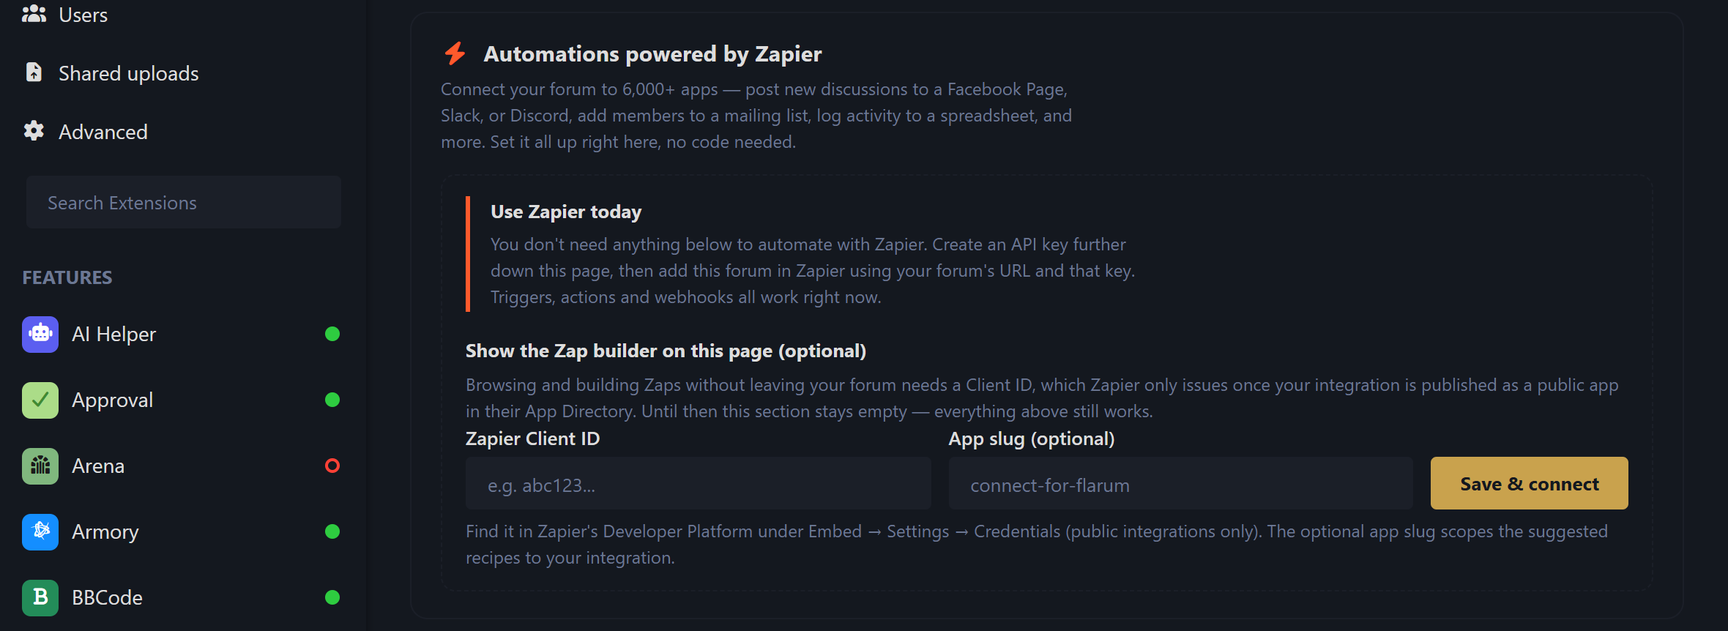
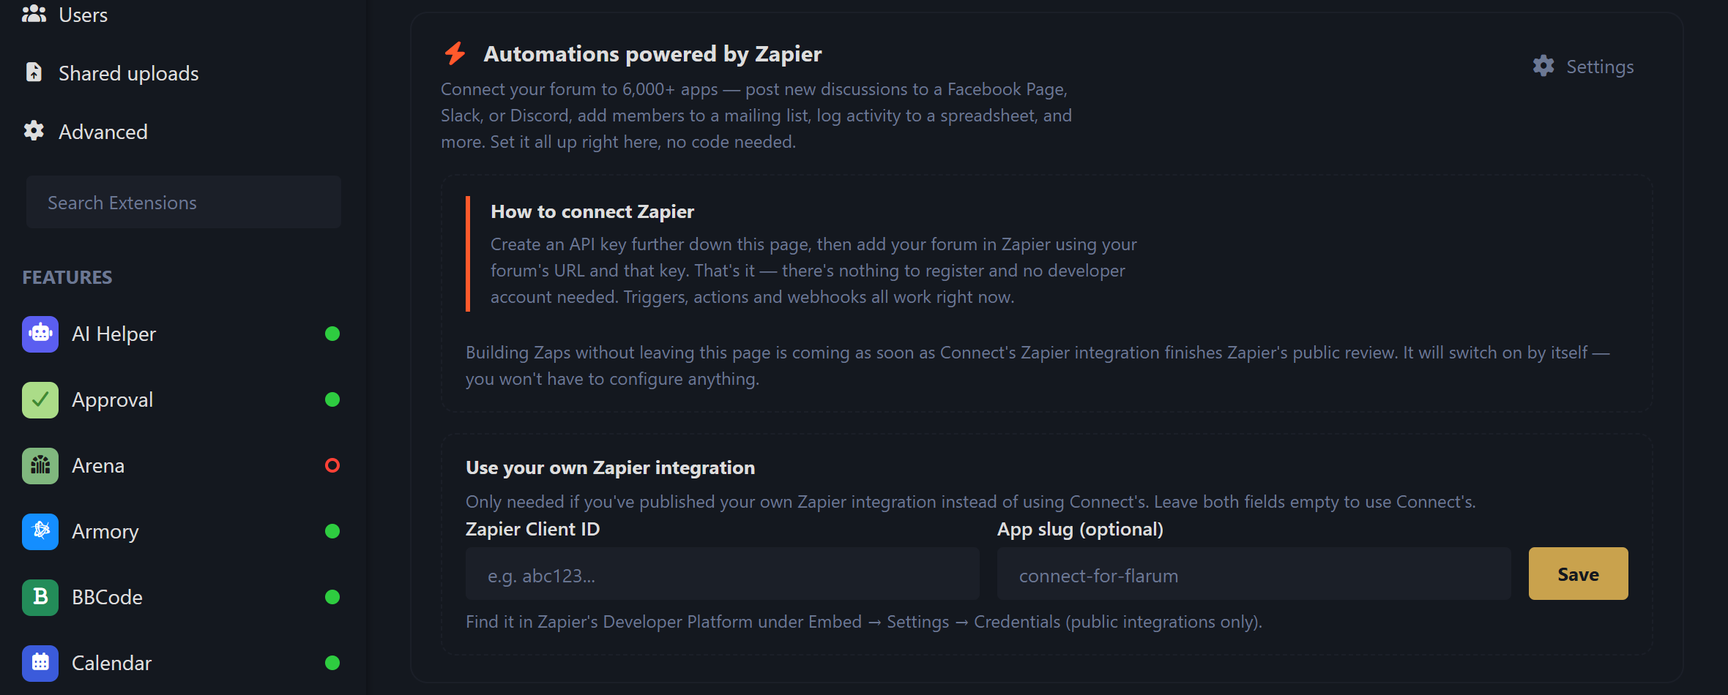
Connect: one shared Zapier integration, zero setup per forum
The panel asked every admin for their own Zapier Client ID — which would mean
each forum owner registering a developer integration and shepherding it through
Zapier's public review just to use the extension. Backwards.

Because the integration authenticates per-site (forum URL + a Connect API key),
a SINGLE published integration serves every install. So the Client ID now ships
in the source (it's public by design) as DEFAULT_CLIENT_ID:

- Admins configure nothing. The in-page builder switches on for every forum the
  moment Connect's integration clears Zapier's public review.
- Until then the panel explains the API-key route, which already works, instead
  of showing a form nobody can complete.
- The per-site Client ID becomes an advanced override behind the gear, for
  anyone running their own integration.

diff --git a/js/dist/admin.js b/js/dist/admin.js
@@ -1,2 +1,2 @@
-(()=>{const e={n:t=>{const n=t&&t.__esModule?()=>t.default:()=>t;return e.d(n,{a:n}),n},d:(t,n)=>{if(Array.isArray(n))for(var a=0;a<n.length;){var l=n[a++],s=n[a++];e.o(t,l)?0===s&&a++:0===s?Object.defineProperty(t,l,{enumerable:!0,value:n[a++]}):Object.defineProperty(t,l,{enumerable:!0,get:s})}else for(var l in n)e.o(n,l)&&!e.o(t,l)&&Object.defineProperty(t,l,{enumerable:!0,get:n[l]})},o:(e,t)=>Object.prototype.hasOwnProperty.call(e,t),r:e=>{Symbol.toStringTag&&Object.defineProperty(e,Symbol.toStringTag,{value:"Module"}),Object.defineProperty(e,"__esModule",{value:!0})}};let t={};(()=>{"use strict";e.r(t),e.d(t,{extend:()=>T});const n=flarum.reg.get("core","common/extenders");var a=e.n(n);function l(e,t){(null==t||t>e.length)&&(t=e.length);for(var n=0,a=Array(t);n<t;n++)a[n]=e[n];return a}function s(e,t){return function(e){if(Array.isArray(e))return e}(e)||function(e,t){var n=null==e?null:"undefined"!=typeof Symbol&&e[Symbol.iterator]||e["@@iterator"];if(null!=n){var a,l,s,o,i=[],r=!0,c=!1;try{if(s=(n=n.call(e)).next,0===t){if(Object(n)!==n)return;r=!1}else for(;!(r=(a=s.call(n)).done)&&(i.push(a.value),i.length!==t);r=!0);}catch(e){c=!0,l=e}finally{try{if(!r&&null!=n.return&&(o=n.return(),Object(o)!==o))return}finally{if(c)throw l}}return i}}(e,t)||function(e,t){if(e){if("string"==typeof e)return l(e,t);var n={}.toString.call(e).slice(8,-1);return"Object"===n&&e.constructor&&(n=e.constructor.name),"Map"===n||"Set"===n?Array.from(e):"Arguments"===n||/^(?:Ui|I)nt(?:8|16|32)(?:Clamped)?Array$/.test(n)?l(e,t):void 0}}(e,t)||function(){throw new TypeError("Invalid attempt to destructure non-iterable instance.\nIn order to be iterable, non-array objects must have a [Symbol.iterator]() method.")}()}function o(e){return o="function"==typeof Symbol&&"symbol"==typeof Symbol.iterator?function(e){return typeof e}:function(e){return e&&"function"==typeof Symbol&&e.constructor===Symbol&&e!==Symbol.prototype?"symbol":typeof e},o(e)}function i(e,t,n){return(t=function(e){var t=function(e){if("object"!=o(e)||!e)return e;var t=e[Symbol.toPrimitive];if(void 0!==t){var n=t.call(e,"string");if("object"!=o(n))return n;throw new TypeError("@@toPrimitive must return a primitive value.")}return String(e)}(e);return"symbol"==o(t)?t:t+""}(t))in e?Object.defineProperty(e,t,{value:n,enumerable:!0,configurable:!0,writable:!0}):e[t]=n,e}const r=flarum.reg.get("core","admin/app");var c=e.n(r);const u=flarum.reg.get("core","admin/components/ExtensionPage");var d=e.n(u);const p=flarum.reg.get("core","common/components/Button");var h=e.n(p);const g=flarum.reg.get("core","common/components/LoadingIndicator");var f=e.n(g);const v=flarum.reg.get("core","common/components/Switch");var b=e.n(v);const y=flarum.reg.get("core","common/Component");var _=e.n(y);const k=flarum.reg.get("core","common/components/Select");var w=e.n(k);function N(e,t){var n=Object.keys(e);if(Object.getOwnPropertySymbols){var a=Object.getOwnPropertySymbols(e);t&&(a=a.filter(function(t){return Object.getOwnPropertyDescriptor(e,t).enumerable})),n.push.apply(n,a)}return n}function C(e){for(var t=1;t<arguments.length;t++){var n=null!=arguments[t]?arguments[t]:{};t%2?N(Object(n),!0).forEach(function(t){i(e,t,n[t])}):Object.getOwnPropertyDescriptors?Object.defineProperties(e,Object.getOwnPropertyDescriptors(n)):N(Object(n)).forEach(function(t){Object.defineProperty(e,t,Object.getOwnPropertyDescriptor(n,t))})}return e}const S=(e,t)=>c().translator.trans("ernestdefoe-connect.admin.".concat(e),t);class B extends(_()){constructor(){super(...arguments),i(this,"r",void 0)}oninit(e){var t,n,a;super.oninit(e);const l=this.attrs.rule;this.r=JSON.parse(JSON.stringify({id:l.id,name:l.name||"",event:l.event||(null!=(t=null==(n=this.attrs.meta.events[0])?void 0:n.key)?t:""),enabled:null==(a=l.enabled)||a,match:l.match||"all",conditions:l.conditions||[],actions:l.actions||[]}))}view(){const e=this.attrs.meta;return m("div",{className:"ConnectRule-editor"},m("div",{className:"Form-group"},m("label",null,S("rule_name")),m("input",{className:"FormControl",value:this.r.name,placeholder:S("rule_name_placeholder"),oninput:e=>{this.r.name=e.target.value}})),m("div",{className:"Form-group"},m("label",null,S("rule_when")),w().component({value:this.r.event,options:Object.fromEntries(e.events.map(e=>[e.key,e.label])),onchange:e=>{this.r.event=e}})),m("div",{className:"Form-group"},m("label",null,S("rule_conditions")),m("div",{className:"ConnectRule-matchRow"},S("rule_match_pre"),w().component({value:this.r.match,options:{all:S("rule_match_all"),any:S("rule_match_any")},onchange:e=>{this.r.match=e}}),S("rule_match_post")),this.r.conditions.map((t,n)=>m("div",{className:"ConnectRule-row"},m("input",{className:"FormControl",placeholder:S("rule_field"),value:t.field,oninput:e=>{t.field=e.target.value}}),w().component({value:t.op,options:Object.fromEntries(e.operators.map(e=>[e,S("op_"+e)])),onchange:e=>{t.op=e}}),["is_empty","is_not_empty"].includes(t.op)?null:m("input",{className:"FormControl",placeholder:S("rule_value"),value:t.value,oninput:e=>{t.value=e.target.value}}),h().component({className:"Button Button--icon Button--flat",icon:"fas fa-times",onclick:()=>{this.r.conditions.splice(n,1)}}))),h().component({className:"Button Button--flat ConnectRule-add",icon:"fas fa-plus",onclick:()=>{this.r.conditions.push({field:"title",op:"contains",value:""})}},S("add_condition"))),m("div",{className:"Form-group"},m("label",null,S("rule_do")),this.r.actions.map((t,n)=>m("div",{className:"ConnectRule-row ConnectRule-actionRow"},w().component({value:t.type,options:Object.fromEntries(e.actions.map(e=>[e.key,e.label])),onchange:e=>{this.r.actions[n]={type:e}}}),this.actionParams(t,e),h().component({className:"Button Button--icon Button--flat",icon:"fas fa-times",onclick:()=>{this.r.actions.splice(n,1)}}))),h().component({className:"Button Button--flat ConnectRule-add",icon:"fas fa-plus",onclick:()=>{var t;this.r.actions.push({type:(null==(t=e.actions[0])?void 0:t.key)||"reply"})}},S("add_action"))),m("div",{className:"ConnectRule-actions"},h().component({className:"Button Button--primary",loading:this.attrs.saving,onclick:()=>this.attrs.onSave(this.r)},S("save_rule")),h().component({className:"Button Button--flat",onclick:()=>this.attrs.onCancel()},S("cancel"))))}actionParams(e,t){switch(e.type){case"reply":return m("textarea",{className:"FormControl",rows:2,placeholder:S("action_reply_content"),value:e.content||"",oninput:t=>{e.content=t.target.value}});case"add_tag":case"remove_tag":return w().component({value:e.tagId||"",options:C({"":"—"},Object.fromEntries(t.tags.map(e=>[String(e.id),e.name]))),onchange:t=>{e.tagId=t}});case"add_to_group":case"remove_from_group":return w().component({value:e.groupId||"",options:C({"":"—"},Object.fromEntries(t.groups.map(e=>[String(e.id),e.name]))),onchange:t=>{e.groupId=t}});case"call_webhook":return m("input",{className:"FormControl",placeholder:"https://…",value:e.url||"",oninput:t=>{e.url=t.target.value}});default:return null}}}flarum.reg.add("ernestdefoe-connect","admin/components/RuleEditor",B);const z=(e,t)=>c().translator.trans("ernestdefoe-connect.admin.".concat(e),t),O="https://cdn.zapier.com/packages/partner-sdk/v0/zapier-elements/zapier-elements.css",A=[{slug:"facebook-pages",label:"Facebook Pages",icon:"fab fa-facebook"},{slug:"slack",label:"Slack",icon:"fab fa-slack"},{slug:"discord",label:"Discord",icon:"fab fa-discord"},{slug:"twitter",label:"X / Twitter",icon:"fab fa-twitter"},{slug:"google-sheets",label:"Google Sheets",icon:"fab fa-google"},{slug:"mailchimp",label:"Mailchimp",icon:"fab fa-mailchimp"},{slug:"telegram",label:"Telegram",icon:"fab fa-telegram"},{slug:"trello",label:"Trello",icon:"fab fa-trello"}];class j extends(_()){constructor(){super(...arguments),i(this,"draftClientId",""),i(this,"draftAppSlug",""),i(this,"editing",!1),i(this,"selected",A[0].slug),i(this,"sdkLoading",!1),i(this,"sdkReady",!1)}oninit(e){super.oninit(e),this.draftClientId=this.attrs.clientId||"",this.draftAppSlug=this.attrs.appSlug||"",this.editing=!this.attrs.clientId,this.attrs.clientId&&this.loadSdk()}loadSdk(){if(this.sdkReady||this.sdkLoading)return;if(this.sdkLoading=!0,!document.querySelector('link[href="'.concat(O,'"]'))){const e=document.createElement("link");e.rel="stylesheet",e.href=O,document.head.appendChild(e)}if(customElements.get("zapier-full-experience"))return this.sdkLoading=!1,void(this.sdkReady=!0);const e=document.createElement("script");e.type="module",e.src="https://cdn.zapier.com/packages/partner-sdk/v0/zapier-elements/zapier-elements.esm.js",e.onload=()=>{this.sdkLoading=!1,this.sdkReady=!0,m.redraw()},e.onerror=()=>{this.sdkLoading=!1,m.redraw()},document.head.appendChild(e)}theme(){try{const e=getComputedStyle(document.body).backgroundColor.match(/\d+(\.\d+)?/g);if(e&&e.length>=3){const t=s(e.map(Number),3),n=t[0],a=t[1];return.2126*n+.7152*a+.0722*t[2]<128?"dark":"light"}}catch(e){}return"light"}appsFilter(){return[this.attrs.appSlug,this.selected].filter(Boolean).join(",")}view(){const e=!!this.attrs.clientId;return m("div",{className:"ConnectZapier"},m("div",{className:"ConnectZapier-head"},m("div",null,m("h3",null,m("i",{className:"fas fa-bolt"})," ",z("zapier_heading")),m("p",{className:"helpText"},z("zapier_intro"))),e?h().component({className:"Button Button--flat",icon:"fas fa-cog",onclick:()=>{this.editing=!this.editing}},z("zapier_settings_btn")):null),this.editing?this.setup():null,e?this.embed():this.editing?null:this.setup())}setup(){return m("div",{className:"ConnectZapier-setup"},m("div",{className:"ConnectZapier-today"},m("h4",null,z("zapier_today_heading")),m("p",{className:"helpText"},z("zapier_today_body"))),m("h4",null,z("zapier_embed_heading")),m("p",{className:"helpText"},z("zapier_embed_requires")),m("div",{className:"ConnectZapier-setupRow"},m("label",null,z("zapier_client_id"),m("input",{className:"FormControl",placeholder:z("zapier_client_id_placeholder"),value:this.draftClientId,oninput:e=>{this.draftClientId=e.target.value}})),m("label",null,z("zapier_app_slug"),m("input",{className:"FormControl",placeholder:"connect-for-flarum",value:this.draftAppSlug,oninput:e=>{this.draftAppSlug=e.target.value}})),h().component({className:"Button Button--primary",loading:this.attrs.saving,onclick:()=>{this.attrs.onSave(this.draftClientId.trim(),this.draftAppSlug.trim()),this.editing=!1,this.draftClientId.trim()&&this.loadSdk()}},z("zapier_save"))),m("p",{className:"helpText"},z("zapier_client_id_help")))}embed(){if(!this.sdkReady)return m("div",{className:"ConnectZapier-loading"},m(f(),null)," ",m("span",null,z("zapier_loading")));const e=this.theme(),t=this.attrs.clientId;return m("div",{className:"ConnectZapier-embed"},m("h4",null,z("zapier_recipes")),m("div",{className:"ConnectZapier-tiles"},A.map(e=>m("button",{className:"ConnectZapier-tile"+(this.selected===e.slug?" is-active":""),onclick:()=>{this.selected=e.slug},type:"button"},m("i",{className:e.icon}),m("span",null,e.label)))),m("zapier-zap-templates",{"client-id":t,theme:e,apps:this.appsFilter(),limit:6,"use-this-zap":"show","zap-style":"row","create-without-template":"hide"}),m("h4",null,z("zapier_build_anything")),m("p",{className:"helpText"},z("zapier_build_anything_help")),m("zapier-full-experience",{"client-id":t,theme:e,"app-search-bar-display":"show","intro-copy-display":"hide"}))}}flarum.reg.add("ernestdefoe-connect","admin/components/ZapierPanel",j);const R=(e,t)=>c().translator.trans("ernestdefoe-connect.admin.".concat(e),t);class P extends(d()){constructor(){super(...arguments),i(this,"loading",!0),i(this,"keys",[]),i(this,"subs",[]),i(this,"events",[]),i(this,"rules",[]),i(this,"meta",null),i(this,"editing",null),i(this,"savingRule",!1),i(this,"zapierClientId",""),i(this,"zapierAppSlug",""),i(this,"savingZapier",!1),i(this,"newLabel",""),i(this,"newScopes",{read:!0,write:!0}),i(this,"creating",!1),i(this,"revealed",{})}oninit(e){super.oninit(e),this.zapierClientId=c().data.settings["ernestdefoe-connect.zapier_client_id"]||"",this.zapierAppSlug=c().data.settings["ernestdefoe-connect.zapier_app_slug"]||"",this.load()}saveZapier(e,t){this.savingZapier=!0,m.redraw(),c().request({method:"POST",url:"".concat(this.api(),"/settings"),body:{"ernestdefoe-connect.zapier_client_id":e,"ernestdefoe-connect.zapier_app_slug":t}}).then(()=>{this.zapierClientId=e,this.zapierAppSlug=t,c().data.settings["ernestdefoe-connect.zapier_client_id"]=e,c().data.settings["ernestdefoe-connect.zapier_app_slug"]=t,this.savingZapier=!1,c().alerts.show({type:"success"},R("zapier_saved")),m.redraw()}).catch(()=>{this.savingZapier=!1,c().alerts.show({type:"error"},R("rule_error")),m.redraw()})}api(){return c().forum.attribute("apiUrl")}load(){this.loading=!0,Promise.all([c().request({method:"GET",url:"".concat(this.api(),"/connect/keys")}),c().request({method:"GET",url:"".concat(this.api(),"/connect/subscriptions")}),c().request({method:"GET",url:"".concat(this.api(),"/connect/events")}),c().request({method:"GET",url:"".concat(this.api(),"/connect/rules")}),c().request({method:"GET",url:"".concat(this.api(),"/connect/meta")})]).then(e=>{let t=s(e,5),n=t[0],a=t[1],l=t[2],o=t[3],i=t[4];this.keys=n.data||[],this.subs=a.data||[],this.events=l.data||[],this.rules=o.data||[],this.meta=i.data||null,this.loading=!1,m.redraw()}).catch(()=>{this.loading=!1,m.redraw()})}newRule(){var e;this.editing={name:"",event:(null==(e=this.events[0])?void 0:e.key)||"",enabled:!0,match:"all",conditions:[],actions:[]},m.redraw()}saveRule(e){this.savingRule=!0,m.redraw();const t=!e.id,n=t?"".concat(this.api(),"/connect/rules"):"".concat(this.api(),"/connect/rules/").concat(e.id);c().request({method:t?"POST":"PATCH",url:n,body:{data:e}}).then(e=>{t?this.rules.push(e.data):this.rules=this.rules.map(t=>t.id===e.data.id?e.data:t),this.editing=null,this.savingRule=!1,c().alerts.show({type:"success"},R("rule_saved")),m.redraw()}).catch(()=>{this.savingRule=!1,c().alerts.show({type:"error"},R("rule_error")),m.redraw()})}toggleRule(e){e.enabled=!e.enabled,c().request({method:"PATCH",url:"".concat(this.api(),"/connect/rules/").concat(e.id),body:{data:{enabled:e.enabled}}})}deleteRule(e){confirm(R("confirm_delete_rule",{name:e.name}))&&c().request({method:"DELETE",url:"".concat(this.api(),"/connect/rules/").concat(e.id)}).then(()=>{this.rules=this.rules.filter(t=>t.id!==e.id),m.redraw()})}create(){const e=this.newLabel.trim();if(!e||this.creating)return;const t=Object.keys(this.newScopes).filter(e=>this.newScopes[e]);this.creating=!0,m.redraw(),c().request({method:"POST",url:"".concat(this.api(),"/connect/keys"),body:{data:{label:e,scopes:t}}}).then(e=>{this.keys.unshift(e.data),this.revealed[e.data.id]=!0,this.newLabel="",this.creating=!1,c().alerts.show({type:"success"},R("key_created")),m.redraw()}).catch(()=>{this.creating=!1,c().alerts.show({type:"error"},R("key_error")),m.redraw()})}revoke(e){confirm(R("confirm_revoke",{label:e.label}))&&c().request({method:"DELETE",url:"".concat(this.api(),"/connect/keys/").concat(e.id)}).then(()=>{this.keys=this.keys.filter(t=>t.id!==e.id),this.subs=this.subs.filter(t=>t.keyLabel!==e.label),m.redraw()})}copy(e){var t;null==(t=navigator.clipboard)||t.writeText(e).then(()=>c().alerts.show({type:"success"},R("copied")))}content(){return this.loading?m("div",{className:"ExtensionPage-settings"},m("div",{className:"container"},m(f(),null))):m("div",{className:"ExtensionPage-settings ConnectAdmin"},m("div",{className:"container"},m("p",{className:"helpText"},R("intro")),j.component({clientId:this.zapierClientId,appSlug:this.zapierAppSlug,saving:this.savingZapier,onSave:(e,t)=>this.saveZapier(e,t)}),m("div",{className:"ConnectAdmin-rulesHead"},m("h3",null,R("rules_heading")),this.editing?null:h().component({className:"Button Button--primary",icon:"fas fa-plus",onclick:()=>this.newRule()},R("new_rule_btn"))),m("p",{className:"helpText"},R("rules_intro")),this.editing?B.component({rule:this.editing,meta:this.meta||{events:this.events,actions:[],operators:[],groups:[],tags:[]},saving:this.savingRule,onSave:e=>this.saveRule(e),onCancel:()=>{this.editing=null}}):0===this.rules.length?m("div",{className:"ConnectAdmin-emptyRules"},m("p",{className:"helpText"},R("no_rules")),h().component({className:"Button Button--primary",icon:"fas fa-plus",onclick:()=>this.newRule()},R("new_rule_btn"))):m("table",{className:"ConnectAdmin-table"},m("thead",null,m("tr",null,m("th",null,R("col_rule")),m("th",null,R("col_trigger")),m("th",null,R("col_runs")),m("th",null,R("col_on")),m("th",null))),m("tbody",null,this.rules.map(e=>m("tr",null,m("td",null,m("b",null,e.name)),m("td",null,m("code",null,e.event)),m("td",null,e.runs),m("td",null,b().component({state:e.enabled,onchange:()=>this.toggleRule(e)})),m("td",{className:"ConnectAdmin-rowActions"},h().component({className:"Button Button--icon Button--flat",icon:"fas fa-pen",onclick:()=>{this.editing={id:e.id,name:e.name,event:e.event,enabled:e.enabled,match:e.match,conditions:e.conditions,actions:e.actions}}}),h().component({className:"Button Button--icon Button--flat ConnectAdmin-revoke",icon:"fas fa-trash",onclick:()=>this.deleteRule(e)})))))),m("div",{className:"ConnectAdmin-create"},m("h3",null,R("new_key")),m("div",{className:"ConnectAdmin-createRow"},m("input",{className:"FormControl",placeholder:R("label_placeholder"),value:this.newLabel,oninput:e=>{this.newLabel=e.target.value}}),m("label",{className:"checkbox"},m("input",{type:"checkbox",checked:this.newScopes.read,onchange:e=>{this.newScopes.read=e.target.checked}})," ",R("scope_read")),m("label",{className:"checkbox"},m("input",{type:"checkbox",checked:this.newScopes.write,onchange:e=>{this.newScopes.write=e.target.checked}})," ",R("scope_write")),h().component({className:"Button Button--primary",loading:this.creating,onclick:()=>this.create()},R("create")))),m("h3",null,R("keys_heading")),0===this.keys.length?m("p",{className:"helpText"},R("no_keys")):m("table",{className:"ConnectAdmin-table"},m("thead",null,m("tr",null,m("th",null,R("col_label")),m("th",null,R("col_actsas")),m("th",null,R("col_scopes")),m("th",null,R("col_creds")),m("th",null,R("col_subs")),m("th",null))),m("tbody",null,this.keys.map(e=>m("tr",null,m("td",null,m("b",null,e.label)),m("td",null,e.user||"—"),m("td",null,e.scopes.join(", ")),m("td",{className:"ConnectAdmin-creds"},m("div",{className:"ConnectAdmin-cred"},m("code",null,e.token),h().component({className:"Button Button--icon Button--flat",icon:"far fa-copy",onclick:()=>this.copy(e.token)})),m("div",{className:"ConnectAdmin-cred"},m("code",null,this.revealed[e.id]?e.secret:"•••••• "+R("secret")),h().component({className:"Button Button--icon Button--flat",icon:this.revealed[e.id]?"far fa-eye-slash":"far fa-eye",onclick:()=>{this.revealed[e.id]=!this.revealed[e.id]}}),h().component({className:"Button Button--icon Button--flat",icon:"far fa-copy",onclick:()=>this.copy(e.secret)}))),m("td",null,e.hooks),m("td",null,h().component({className:"Button Button--icon Button--flat ConnectAdmin-revoke",icon:"fas fa-trash",onclick:()=>this.revoke(e)})))))),m("h3",null,R("triggers_heading")),m("ul",{className:"ConnectAdmin-events"},this.events.map(e=>m("li",null,m("code",null,e.key)," ",m("span",null,e.label)))),m("h3",null,R("subs_heading")),0===this.subs.length?m("p",{className:"helpText"},R("no_subs")):m("table",{className:"ConnectAdmin-table"},m("thead",null,m("tr",null,m("th",null,R("col_event")),m("th",null,R("col_target")),m("th",null,R("col_key")))),m("tbody",null,this.subs.map(e=>m("tr",null,m("td",null,m("code",null,e.event)),m("td",{className:"ConnectAdmin-target"},e.targetUrl),m("td",null,e.keyLabel||"—")))))))}}flarum.reg.add("ernestdefoe-connect","admin/components/ConnectPage",P);const T=[(new(a().Admin)).page(P)]})(),module.exports=t})();
+(()=>{const e={n:t=>{const n=t&&t.__esModule?()=>t.default:()=>t;return e.d(n,{a:n}),n},d:(t,n)=>{if(Array.isArray(n))for(var a=0;a<n.length;){var l=n[a++],s=n[a++];e.o(t,l)?0===s&&a++:0===s?Object.defineProperty(t,l,{enumerable:!0,value:n[a++]}):Object.defineProperty(t,l,{enumerable:!0,get:s})}else for(var l in n)e.o(n,l)&&!e.o(t,l)&&Object.defineProperty(t,l,{enumerable:!0,get:n[l]})},o:(e,t)=>Object.prototype.hasOwnProperty.call(e,t),r:e=>{Symbol.toStringTag&&Object.defineProperty(e,Symbol.toStringTag,{value:"Module"}),Object.defineProperty(e,"__esModule",{value:!0})}};let t={};(()=>{"use strict";e.r(t),e.d(t,{extend:()=>T});const n=flarum.reg.get("core","common/extenders");var a=e.n(n);function l(e,t){(null==t||t>e.length)&&(t=e.length);for(var n=0,a=Array(t);n<t;n++)a[n]=e[n];return a}function s(e,t){return function(e){if(Array.isArray(e))return e}(e)||function(e,t){var n=null==e?null:"undefined"!=typeof Symbol&&e[Symbol.iterator]||e["@@iterator"];if(null!=n){var a,l,s,i,o=[],r=!0,c=!1;try{if(s=(n=n.call(e)).next,0===t){if(Object(n)!==n)return;r=!1}else for(;!(r=(a=s.call(n)).done)&&(o.push(a.value),o.length!==t);r=!0);}catch(e){c=!0,l=e}finally{try{if(!r&&null!=n.return&&(i=n.return(),Object(i)!==i))return}finally{if(c)throw l}}return o}}(e,t)||function(e,t){if(e){if("string"==typeof e)return l(e,t);var n={}.toString.call(e).slice(8,-1);return"Object"===n&&e.constructor&&(n=e.constructor.name),"Map"===n||"Set"===n?Array.from(e):"Arguments"===n||/^(?:Ui|I)nt(?:8|16|32)(?:Clamped)?Array$/.test(n)?l(e,t):void 0}}(e,t)||function(){throw new TypeError("Invalid attempt to destructure non-iterable instance.\nIn order to be iterable, non-array objects must have a [Symbol.iterator]() method.")}()}function i(e){return i="function"==typeof Symbol&&"symbol"==typeof Symbol.iterator?function(e){return typeof e}:function(e){return e&&"function"==typeof Symbol&&e.constructor===Symbol&&e!==Symbol.prototype?"symbol":typeof e},i(e)}function o(e,t,n){return(t=function(e){var t=function(e){if("object"!=i(e)||!e)return e;var t=e[Symbol.toPrimitive];if(void 0!==t){var n=t.call(e,"string");if("object"!=i(n))return n;throw new TypeError("@@toPrimitive must return a primitive value.")}return String(e)}(e);return"symbol"==i(t)?t:t+""}(t))in e?Object.defineProperty(e,t,{value:n,enumerable:!0,configurable:!0,writable:!0}):e[t]=n,e}const r=flarum.reg.get("core","admin/app");var c=e.n(r);const u=flarum.reg.get("core","admin/components/ExtensionPage");var d=e.n(u);const p=flarum.reg.get("core","common/components/Button");var h=e.n(p);const g=flarum.reg.get("core","common/components/LoadingIndicator");var f=e.n(g);const v=flarum.reg.get("core","common/components/Switch");var b=e.n(v);const y=flarum.reg.get("core","common/Component");var _=e.n(y);const k=flarum.reg.get("core","common/components/Select");var w=e.n(k);function N(e,t){var n=Object.keys(e);if(Object.getOwnPropertySymbols){var a=Object.getOwnPropertySymbols(e);t&&(a=a.filter(function(t){return Object.getOwnPropertyDescriptor(e,t).enumerable})),n.push.apply(n,a)}return n}function C(e){for(var t=1;t<arguments.length;t++){var n=null!=arguments[t]?arguments[t]:{};t%2?N(Object(n),!0).forEach(function(t){o(e,t,n[t])}):Object.getOwnPropertyDescriptors?Object.defineProperties(e,Object.getOwnPropertyDescriptors(n)):N(Object(n)).forEach(function(t){Object.defineProperty(e,t,Object.getOwnPropertyDescriptor(n,t))})}return e}const S=(e,t)=>c().translator.trans("ernestdefoe-connect.admin.".concat(e),t);class z extends(_()){constructor(){super(...arguments),o(this,"r",void 0)}oninit(e){var t,n,a;super.oninit(e);const l=this.attrs.rule;this.r=JSON.parse(JSON.stringify({id:l.id,name:l.name||"",event:l.event||(null!=(t=null==(n=this.attrs.meta.events[0])?void 0:n.key)?t:""),enabled:null==(a=l.enabled)||a,match:l.match||"all",conditions:l.conditions||[],actions:l.actions||[]}))}view(){const e=this.attrs.meta;return m("div",{className:"ConnectRule-editor"},m("div",{className:"Form-group"},m("label",null,S("rule_name")),m("input",{className:"FormControl",value:this.r.name,placeholder:S("rule_name_placeholder"),oninput:e=>{this.r.name=e.target.value}})),m("div",{className:"Form-group"},m("label",null,S("rule_when")),w().component({value:this.r.event,options:Object.fromEntries(e.events.map(e=>[e.key,e.label])),onchange:e=>{this.r.event=e}})),m("div",{className:"Form-group"},m("label",null,S("rule_conditions")),m("div",{className:"ConnectRule-matchRow"},S("rule_match_pre"),w().component({value:this.r.match,options:{all:S("rule_match_all"),any:S("rule_match_any")},onchange:e=>{this.r.match=e}}),S("rule_match_post")),this.r.conditions.map((t,n)=>m("div",{className:"ConnectRule-row"},m("input",{className:"FormControl",placeholder:S("rule_field"),value:t.field,oninput:e=>{t.field=e.target.value}}),w().component({value:t.op,options:Object.fromEntries(e.operators.map(e=>[e,S("op_"+e)])),onchange:e=>{t.op=e}}),["is_empty","is_not_empty"].includes(t.op)?null:m("input",{className:"FormControl",placeholder:S("rule_value"),value:t.value,oninput:e=>{t.value=e.target.value}}),h().component({className:"Button Button--icon Button--flat",icon:"fas fa-times",onclick:()=>{this.r.conditions.splice(n,1)}}))),h().component({className:"Button Button--flat ConnectRule-add",icon:"fas fa-plus",onclick:()=>{this.r.conditions.push({field:"title",op:"contains",value:""})}},S("add_condition"))),m("div",{className:"Form-group"},m("label",null,S("rule_do")),this.r.actions.map((t,n)=>m("div",{className:"ConnectRule-row ConnectRule-actionRow"},w().component({value:t.type,options:Object.fromEntries(e.actions.map(e=>[e.key,e.label])),onchange:e=>{this.r.actions[n]={type:e}}}),this.actionParams(t,e),h().component({className:"Button Button--icon Button--flat",icon:"fas fa-times",onclick:()=>{this.r.actions.splice(n,1)}}))),h().component({className:"Button Button--flat ConnectRule-add",icon:"fas fa-plus",onclick:()=>{var t;this.r.actions.push({type:(null==(t=e.actions[0])?void 0:t.key)||"reply"})}},S("add_action"))),m("div",{className:"ConnectRule-actions"},h().component({className:"Button Button--primary",loading:this.attrs.saving,onclick:()=>this.attrs.onSave(this.r)},S("save_rule")),h().component({className:"Button Button--flat",onclick:()=>this.attrs.onCancel()},S("cancel"))))}actionParams(e,t){switch(e.type){case"reply":return m("textarea",{className:"FormControl",rows:2,placeholder:S("action_reply_content"),value:e.content||"",oninput:t=>{e.content=t.target.value}});case"add_tag":case"remove_tag":return w().component({value:e.tagId||"",options:C({"":"—"},Object.fromEntries(t.tags.map(e=>[String(e.id),e.name]))),onchange:t=>{e.tagId=t}});case"add_to_group":case"remove_from_group":return w().component({value:e.groupId||"",options:C({"":"—"},Object.fromEntries(t.groups.map(e=>[String(e.id),e.name]))),onchange:t=>{e.groupId=t}});case"call_webhook":return m("input",{className:"FormControl",placeholder:"https://…",value:e.url||"",oninput:t=>{e.url=t.target.value}});default:return null}}}flarum.reg.add("ernestdefoe-connect","admin/components/RuleEditor",z);const B=(e,t)=>c().translator.trans("ernestdefoe-connect.admin.".concat(e),t),O="https://cdn.zapier.com/packages/partner-sdk/v0/zapier-elements/zapier-elements.css",A=[{slug:"facebook-pages",label:"Facebook Pages",icon:"fab fa-facebook"},{slug:"slack",label:"Slack",icon:"fab fa-slack"},{slug:"discord",label:"Discord",icon:"fab fa-discord"},{slug:"twitter",label:"X / Twitter",icon:"fab fa-twitter"},{slug:"google-sheets",label:"Google Sheets",icon:"fab fa-google"},{slug:"mailchimp",label:"Mailchimp",icon:"fab fa-mailchimp"},{slug:"telegram",label:"Telegram",icon:"fab fa-telegram"},{slug:"trello",label:"Trello",icon:"fab fa-trello"}];class j extends(_()){constructor(){super(...arguments),o(this,"draftClientId",""),o(this,"draftAppSlug",""),o(this,"editing",!1),o(this,"selected",A[0].slug),o(this,"sdkLoading",!1),o(this,"sdkReady",!1)}oninit(e){super.oninit(e),this.draftClientId=this.attrs.clientId||"",this.draftAppSlug=this.attrs.appSlug||"",this.editing=!1,this.clientId()&&this.loadSdk()}clientId(){return(this.attrs.clientId||"").trim()}appSlug(){return(this.attrs.appSlug||"connect-for-flarum").trim()}loadSdk(){if(this.sdkReady||this.sdkLoading)return;if(this.sdkLoading=!0,!document.querySelector('link[href="'.concat(O,'"]'))){const e=document.createElement("link");e.rel="stylesheet",e.href=O,document.head.appendChild(e)}if(customElements.get("zapier-full-experience"))return this.sdkLoading=!1,void(this.sdkReady=!0);const e=document.createElement("script");e.type="module",e.src="https://cdn.zapier.com/packages/partner-sdk/v0/zapier-elements/zapier-elements.esm.js",e.onload=()=>{this.sdkLoading=!1,this.sdkReady=!0,m.redraw()},e.onerror=()=>{this.sdkLoading=!1,m.redraw()},document.head.appendChild(e)}theme(){try{const e=getComputedStyle(document.body).backgroundColor.match(/\d+(\.\d+)?/g);if(e&&e.length>=3){const t=s(e.map(Number),3),n=t[0],a=t[1];return.2126*n+.7152*a+.0722*t[2]<128?"dark":"light"}}catch(e){}return"light"}appsFilter(){return[this.appSlug(),this.selected].filter(Boolean).join(",")}view(){const e=!!this.clientId();return m("div",{className:"ConnectZapier"},m("div",{className:"ConnectZapier-head"},m("div",null,m("h3",null,m("i",{className:"fas fa-bolt"})," ",B("zapier_heading")),m("p",{className:"helpText"},B("zapier_intro"))),h().component({className:"Button Button--flat",icon:"fas fa-cog",onclick:()=>{this.editing=!this.editing}},B("zapier_settings_btn"))),e?null:this.gettingStarted(),this.editing?this.advanced():null,e?this.embed():null)}gettingStarted(){return m("div",{className:"ConnectZapier-setup"},m("div",{className:"ConnectZapier-today"},m("h4",null,B("zapier_today_heading")),m("p",{className:"helpText"},B("zapier_today_body"))),m("p",{className:"helpText"},B("zapier_builder_pending")))}advanced(){return m("div",{className:"ConnectZapier-setup"},m("h4",null,B("zapier_advanced_heading")),m("p",{className:"helpText"},B("zapier_advanced_help")),m("div",{className:"ConnectZapier-setupRow"},m("label",null,B("zapier_client_id"),m("input",{className:"FormControl",placeholder:B("zapier_client_id_placeholder"),value:this.draftClientId,oninput:e=>{this.draftClientId=e.target.value}})),m("label",null,B("zapier_app_slug"),m("input",{className:"FormControl",placeholder:"connect-for-flarum",value:this.draftAppSlug,oninput:e=>{this.draftAppSlug=e.target.value}})),h().component({className:"Button Button--primary",loading:this.attrs.saving,onclick:()=>{this.attrs.onSave(this.draftClientId.trim(),this.draftAppSlug.trim()),this.editing=!1,this.draftClientId.trim()&&this.loadSdk()}},B("zapier_save"))),m("p",{className:"helpText"},B("zapier_client_id_help")))}embed(){if(!this.sdkReady)return m("div",{className:"ConnectZapier-loading"},m(f(),null)," ",m("span",null,B("zapier_loading")));const e=this.theme(),t=this.clientId();return m("div",{className:"ConnectZapier-embed"},m("h4",null,B("zapier_recipes")),m("div",{className:"ConnectZapier-tiles"},A.map(e=>m("button",{className:"ConnectZapier-tile"+(this.selected===e.slug?" is-active":""),onclick:()=>{this.selected=e.slug},type:"button"},m("i",{className:e.icon}),m("span",null,e.label)))),m("zapier-zap-templates",{"client-id":t,theme:e,apps:this.appsFilter(),limit:6,"use-this-zap":"show","zap-style":"row","create-without-template":"hide"}),m("h4",null,B("zapier_build_anything")),m("p",{className:"helpText"},B("zapier_build_anything_help")),m("zapier-full-experience",{"client-id":t,theme:e,"app-search-bar-display":"show","intro-copy-display":"hide"}))}}flarum.reg.add("ernestdefoe-connect","admin/components/ZapierPanel",j);const R=(e,t)=>c().translator.trans("ernestdefoe-connect.admin.".concat(e),t);class P extends(d()){constructor(){super(...arguments),o(this,"loading",!0),o(this,"keys",[]),o(this,"subs",[]),o(this,"events",[]),o(this,"rules",[]),o(this,"meta",null),o(this,"editing",null),o(this,"savingRule",!1),o(this,"zapierClientId",""),o(this,"zapierAppSlug",""),o(this,"savingZapier",!1),o(this,"newLabel",""),o(this,"newScopes",{read:!0,write:!0}),o(this,"creating",!1),o(this,"revealed",{})}oninit(e){super.oninit(e),this.zapierClientId=c().data.settings["ernestdefoe-connect.zapier_client_id"]||"",this.zapierAppSlug=c().data.settings["ernestdefoe-connect.zapier_app_slug"]||"",this.load()}saveZapier(e,t){this.savingZapier=!0,m.redraw(),c().request({method:"POST",url:"".concat(this.api(),"/settings"),body:{"ernestdefoe-connect.zapier_client_id":e,"ernestdefoe-connect.zapier_app_slug":t}}).then(()=>{this.zapierClientId=e,this.zapierAppSlug=t,c().data.settings["ernestdefoe-connect.zapier_client_id"]=e,c().data.settings["ernestdefoe-connect.zapier_app_slug"]=t,this.savingZapier=!1,c().alerts.show({type:"success"},R("zapier_saved")),m.redraw()}).catch(()=>{this.savingZapier=!1,c().alerts.show({type:"error"},R("rule_error")),m.redraw()})}api(){return c().forum.attribute("apiUrl")}load(){this.loading=!0,Promise.all([c().request({method:"GET",url:"".concat(this.api(),"/connect/keys")}),c().request({method:"GET",url:"".concat(this.api(),"/connect/subscriptions")}),c().request({method:"GET",url:"".concat(this.api(),"/connect/events")}),c().request({method:"GET",url:"".concat(this.api(),"/connect/rules")}),c().request({method:"GET",url:"".concat(this.api(),"/connect/meta")})]).then(e=>{let t=s(e,5),n=t[0],a=t[1],l=t[2],i=t[3],o=t[4];this.keys=n.data||[],this.subs=a.data||[],this.events=l.data||[],this.rules=i.data||[],this.meta=o.data||null,this.loading=!1,m.redraw()}).catch(()=>{this.loading=!1,m.redraw()})}newRule(){var e;this.editing={name:"",event:(null==(e=this.events[0])?void 0:e.key)||"",enabled:!0,match:"all",conditions:[],actions:[]},m.redraw()}saveRule(e){this.savingRule=!0,m.redraw();const t=!e.id,n=t?"".concat(this.api(),"/connect/rules"):"".concat(this.api(),"/connect/rules/").concat(e.id);c().request({method:t?"POST":"PATCH",url:n,body:{data:e}}).then(e=>{t?this.rules.push(e.data):this.rules=this.rules.map(t=>t.id===e.data.id?e.data:t),this.editing=null,this.savingRule=!1,c().alerts.show({type:"success"},R("rule_saved")),m.redraw()}).catch(()=>{this.savingRule=!1,c().alerts.show({type:"error"},R("rule_error")),m.redraw()})}toggleRule(e){e.enabled=!e.enabled,c().request({method:"PATCH",url:"".concat(this.api(),"/connect/rules/").concat(e.id),body:{data:{enabled:e.enabled}}})}deleteRule(e){confirm(R("confirm_delete_rule",{name:e.name}))&&c().request({method:"DELETE",url:"".concat(this.api(),"/connect/rules/").concat(e.id)}).then(()=>{this.rules=this.rules.filter(t=>t.id!==e.id),m.redraw()})}create(){const e=this.newLabel.trim();if(!e||this.creating)return;const t=Object.keys(this.newScopes).filter(e=>this.newScopes[e]);this.creating=!0,m.redraw(),c().request({method:"POST",url:"".concat(this.api(),"/connect/keys"),body:{data:{label:e,scopes:t}}}).then(e=>{this.keys.unshift(e.data),this.revealed[e.data.id]=!0,this.newLabel="",this.creating=!1,c().alerts.show({type:"success"},R("key_created")),m.redraw()}).catch(()=>{this.creating=!1,c().alerts.show({type:"error"},R("key_error")),m.redraw()})}revoke(e){confirm(R("confirm_revoke",{label:e.label}))&&c().request({method:"DELETE",url:"".concat(this.api(),"/connect/keys/").concat(e.id)}).then(()=>{this.keys=this.keys.filter(t=>t.id!==e.id),this.subs=this.subs.filter(t=>t.keyLabel!==e.label),m.redraw()})}copy(e){var t;null==(t=navigator.clipboard)||t.writeText(e).then(()=>c().alerts.show({type:"success"},R("copied")))}content(){return this.loading?m("div",{className:"ExtensionPage-settings"},m("div",{className:"container"},m(f(),null))):m("div",{className:"ExtensionPage-settings ConnectAdmin"},m("div",{className:"container"},m("p",{className:"helpText"},R("intro")),j.component({clientId:this.zapierClientId,appSlug:this.zapierAppSlug,saving:this.savingZapier,onSave:(e,t)=>this.saveZapier(e,t)}),m("div",{className:"ConnectAdmin-rulesHead"},m("h3",null,R("rules_heading")),this.editing?null:h().component({className:"Button Button--primary",icon:"fas fa-plus",onclick:()=>this.newRule()},R("new_rule_btn"))),m("p",{className:"helpText"},R("rules_intro")),this.editing?z.component({rule:this.editing,meta:this.meta||{events:this.events,actions:[],operators:[],groups:[],tags:[]},saving:this.savingRule,onSave:e=>this.saveRule(e),onCancel:()=>{this.editing=null}}):0===this.rules.length?m("div",{className:"ConnectAdmin-emptyRules"},m("p",{className:"helpText"},R("no_rules")),h().component({className:"Button Button--primary",icon:"fas fa-plus",onclick:()=>this.newRule()},R("new_rule_btn"))):m("table",{className:"ConnectAdmin-table"},m("thead",null,m("tr",null,m("th",null,R("col_rule")),m("th",null,R("col_trigger")),m("th",null,R("col_runs")),m("th",null,R("col_on")),m("th",null))),m("tbody",null,this.rules.map(e=>m("tr",null,m("td",null,m("b",null,e.name)),m("td",null,m("code",null,e.event)),m("td",null,e.runs),m("td",null,b().component({state:e.enabled,onchange:()=>this.toggleRule(e)})),m("td",{className:"ConnectAdmin-rowActions"},h().component({className:"Button Button--icon Button--flat",icon:"fas fa-pen",onclick:()=>{this.editing={id:e.id,name:e.name,event:e.event,enabled:e.enabled,match:e.match,conditions:e.conditions,actions:e.actions}}}),h().component({className:"Button Button--icon Button--flat ConnectAdmin-revoke",icon:"fas fa-trash",onclick:()=>this.deleteRule(e)})))))),m("div",{className:"ConnectAdmin-create"},m("h3",null,R("new_key")),m("div",{className:"ConnectAdmin-createRow"},m("input",{className:"FormControl",placeholder:R("label_placeholder"),value:this.newLabel,oninput:e=>{this.newLabel=e.target.value}}),m("label",{className:"checkbox"},m("input",{type:"checkbox",checked:this.newScopes.read,onchange:e=>{this.newScopes.read=e.target.checked}})," ",R("scope_read")),m("label",{className:"checkbox"},m("input",{type:"checkbox",checked:this.newScopes.write,onchange:e=>{this.newScopes.write=e.target.checked}})," ",R("scope_write")),h().component({className:"Button Button--primary",loading:this.creating,onclick:()=>this.create()},R("create")))),m("h3",null,R("keys_heading")),0===this.keys.length?m("p",{className:"helpText"},R("no_keys")):m("table",{className:"ConnectAdmin-table"},m("thead",null,m("tr",null,m("th",null,R("col_label")),m("th",null,R("col_actsas")),m("th",null,R("col_scopes")),m("th",null,R("col_creds")),m("th",null,R("col_subs")),m("th",null))),m("tbody",null,this.keys.map(e=>m("tr",null,m("td",null,m("b",null,e.label)),m("td",null,e.user||"—"),m("td",null,e.scopes.join(", ")),m("td",{className:"ConnectAdmin-creds"},m("div",{className:"ConnectAdmin-cred"},m("code",null,e.token),h().component({className:"Button Button--icon Button--flat",icon:"far fa-copy",onclick:()=>this.copy(e.token)})),m("div",{className:"ConnectAdmin-cred"},m("code",null,this.revealed[e.id]?e.secret:"•••••• "+R("secret")),h().component({className:"Button Button--icon Button--flat",icon:this.revealed[e.id]?"far fa-eye-slash":"far fa-eye",onclick:()=>{this.revealed[e.id]=!this.revealed[e.id]}}),h().component({className:"Button Button--icon Button--flat",icon:"far fa-copy",onclick:()=>this.copy(e.secret)}))),m("td",null,e.hooks),m("td",null,h().component({className:"Button Button--icon Button--flat ConnectAdmin-revoke",icon:"fas fa-trash",onclick:()=>this.revoke(e)})))))),m("h3",null,R("triggers_heading")),m("ul",{className:"ConnectAdmin-events"},this.events.map(e=>m("li",null,m("code",null,e.key)," ",m("span",null,e.label)))),m("h3",null,R("subs_heading")),0===this.subs.length?m("p",{className:"helpText"},R("no_subs")):m("table",{className:"ConnectAdmin-table"},m("thead",null,m("tr",null,m("th",null,R("col_event")),m("th",null,R("col_target")),m("th",null,R("col_key")))),m("tbody",null,this.subs.map(e=>m("tr",null,m("td",null,m("code",null,e.event)),m("td",{className:"ConnectAdmin-target"},e.targetUrl),m("td",null,e.keyLabel||"—")))))))}}flarum.reg.add("ernestdefoe-connect","admin/components/ConnectPage",P);const T=[(new(a().Admin)).page(P)]})(),module.exports=t})();
 //# sourceMappingURL=admin.js.map

diff --git a/js/src/admin/components/ZapierPanel.tsx b/js/src/admin/components/ZapierPanel.tsx
@@ -27,6 +27,20 @@ const POPULAR: { slug: string; label: string; icon: string }[] = [
   { slug: 'trello', label: 'Trello', icon: 'fab fa-trello' },
 ];
 
+// Connect ships ONE published Zapier integration that every forum shares.
+// That works because the integration authenticates per-site (forum URL + a
+// Connect API key), so a single public app serves every install — an admin
+// never registers anything with Zapier. The Client ID is public by design (it
+// only identifies the integration to the embed), so it lives here in the
+// source rather than in each site's settings.
+//
+// Empty until the integration clears Zapier's public-app review — Zapier only
+// issues a Client ID to published apps. Until then the panel shows the API-key
+// route, which already works. Filling this in is all that's needed to switch
+// the in-page builder on for every forum running Connect.
+const DEFAULT_CLIENT_ID = '';
+const DEFAULT_APP_SLUG = 'connect-for-flarum';
+
 interface Attrs {
   clientId: string;
   appSlug: string;
@@ -46,8 +60,17 @@ export default class ZapierPanel extends Component<Attrs> {
     super.oninit(vnode);
     this.draftClientId = this.attrs.clientId || '';
     this.draftAppSlug = this.attrs.appSlug || '';
-    this.editing = !this.attrs.clientId; // no client id yet → show setup
-    if (this.attrs.clientId) this.loadSdk();
+    this.editing = false; // nothing to configure by default — see clientId()
+    if (this.clientId()) this.loadSdk();
+  }
+
+  /** A site's own integration wins; otherwise Connect's shared published one. */
+  private clientId(): string {
+    return (this.attrs.clientId || DEFAULT_CLIENT_ID).trim();
+  }
+
+  private appSlug(): string {
+    return (this.attrs.appSlug || DEFAULT_APP_SLUG).trim();
   }
 
   /** Inject Zapier's Elements script + stylesheet exactly once. */
@@ -92,12 +115,12 @@ export default class ZapierPanel extends Component<Attrs> {
   }
 
   private appsFilter(): string {
-    // Scope templates to Connect + the picked destination when we know our slug.
-    return [this.attrs.appSlug, this.selected].filter(Boolean).join(',');
+    // Scope templates to Connect + the picked destination.
+    return [this.appSlug(), this.selected].filter(Boolean).join(',');
   }
 
   view() {
-    const configured = !!this.attrs.clientId;
+    const ready = !!this.clientId();
 
     return (
       <div className="ConnectZapier">
@@ -106,34 +129,40 @@ export default class ZapierPanel extends Component<Attrs> {
             <h3><i className="fas fa-bolt" /> {t('zapier_heading')}</h3>
             <p className="helpText">{t('zapier_intro')}</p>
           </div>
-          {configured
-            ? Button.component({ className: 'Button Button--flat', icon: 'fas fa-cog', onclick: () => { this.editing = !this.editing; } }, t('zapier_settings_btn'))
-            : null}
+          {Button.component({ className: 'Button Button--flat', icon: 'fas fa-cog', onclick: () => { this.editing = !this.editing; } }, t('zapier_settings_btn'))}
         </div>
 
-        {this.editing ? this.setup() : null}
-
-        {configured ? this.embed() : (!this.editing ? this.setup() : null)}
+        {/* Nothing to configure normally: Connect ships its own integration. */}
+        {ready ? null : this.gettingStarted()}
+        {this.editing ? this.advanced() : null}
+        {ready ? this.embed() : null}
       </div>
     );
   }
 
   /**
-   * Setup state. Leads with what actually works today (an API key + forum URL is
-   * all Zapier needs), because the embedded experience below is gated on Zapier
-   * issuing a Client ID — which only happens once the integration is published
-   * publicly in their App Directory.
+   * Shown while Connect's shared integration is still awaiting Zapier's public
+   * review. The API-key route below already works, so lead with that rather
+   * than implying the admin has something to set up.
    */
-  private setup(): Mithril.Children {
+  private gettingStarted(): Mithril.Children {
     return (
       <div className="ConnectZapier-setup">
         <div className="ConnectZapier-today">
           <h4>{t('zapier_today_heading')}</h4>
           <p className="helpText">{t('zapier_today_body')}</p>
         </div>
+        <p className="helpText">{t('zapier_builder_pending')}</p>
+      </div>
+    );
+  }
 
-        <h4>{t('zapier_embed_heading')}</h4>
-        <p className="helpText">{t('zapier_embed_requires')}</p>
+  /** Escape hatch for anyone running their own Zapier integration. */
+  private advanced(): Mithril.Children {
+    return (
+      <div className="ConnectZapier-setup">
+        <h4>{t('zapier_advanced_heading')}</h4>
+        <p className="helpText">{t('zapier_advanced_help')}</p>
         <div className="ConnectZapier-setupRow">
           <label>
             {t('zapier_client_id')}
@@ -166,7 +195,7 @@ export default class ZapierPanel extends Component<Attrs> {
     }
 
     const theme = this.theme();
-    const clientId = this.attrs.clientId;
+    const clientId = this.clientId();
 
     return (
       <div className="ConnectZapier-embed">

diff --git a/README.md b/README.md
@@ -40,9 +40,14 @@ switching, no developer knowledge required.
 
 ![The in-admin Zapier experience — curated recipes plus the full Zap builder](.github/screenshots/zapier-embed.png)
 
-Paste your Zapier integration's **Client ID** once (Admin → Connect) and the full
-experience appears, themed to match your forum. Prefer Make, n8n, or IFTTT?
-They all work off the same [REST API](#rest-api) and webhooks.
+Connecting takes one API key — there's **nothing to register with Zapier and no
+developer account needed**. Connect ships its own published Zapier integration
+that every forum shares; because it authenticates per-site (your forum URL + your
+key), one integration serves everyone. The in-page Zap builder switches itself on
+once that integration clears Zapier's public review, themed to match your forum.
+
+Prefer Make, n8n, or IFTTT? They all work off the same [REST API](#rest-api) and
+webhooks — no Zapier account involved.
 
 ---
 
